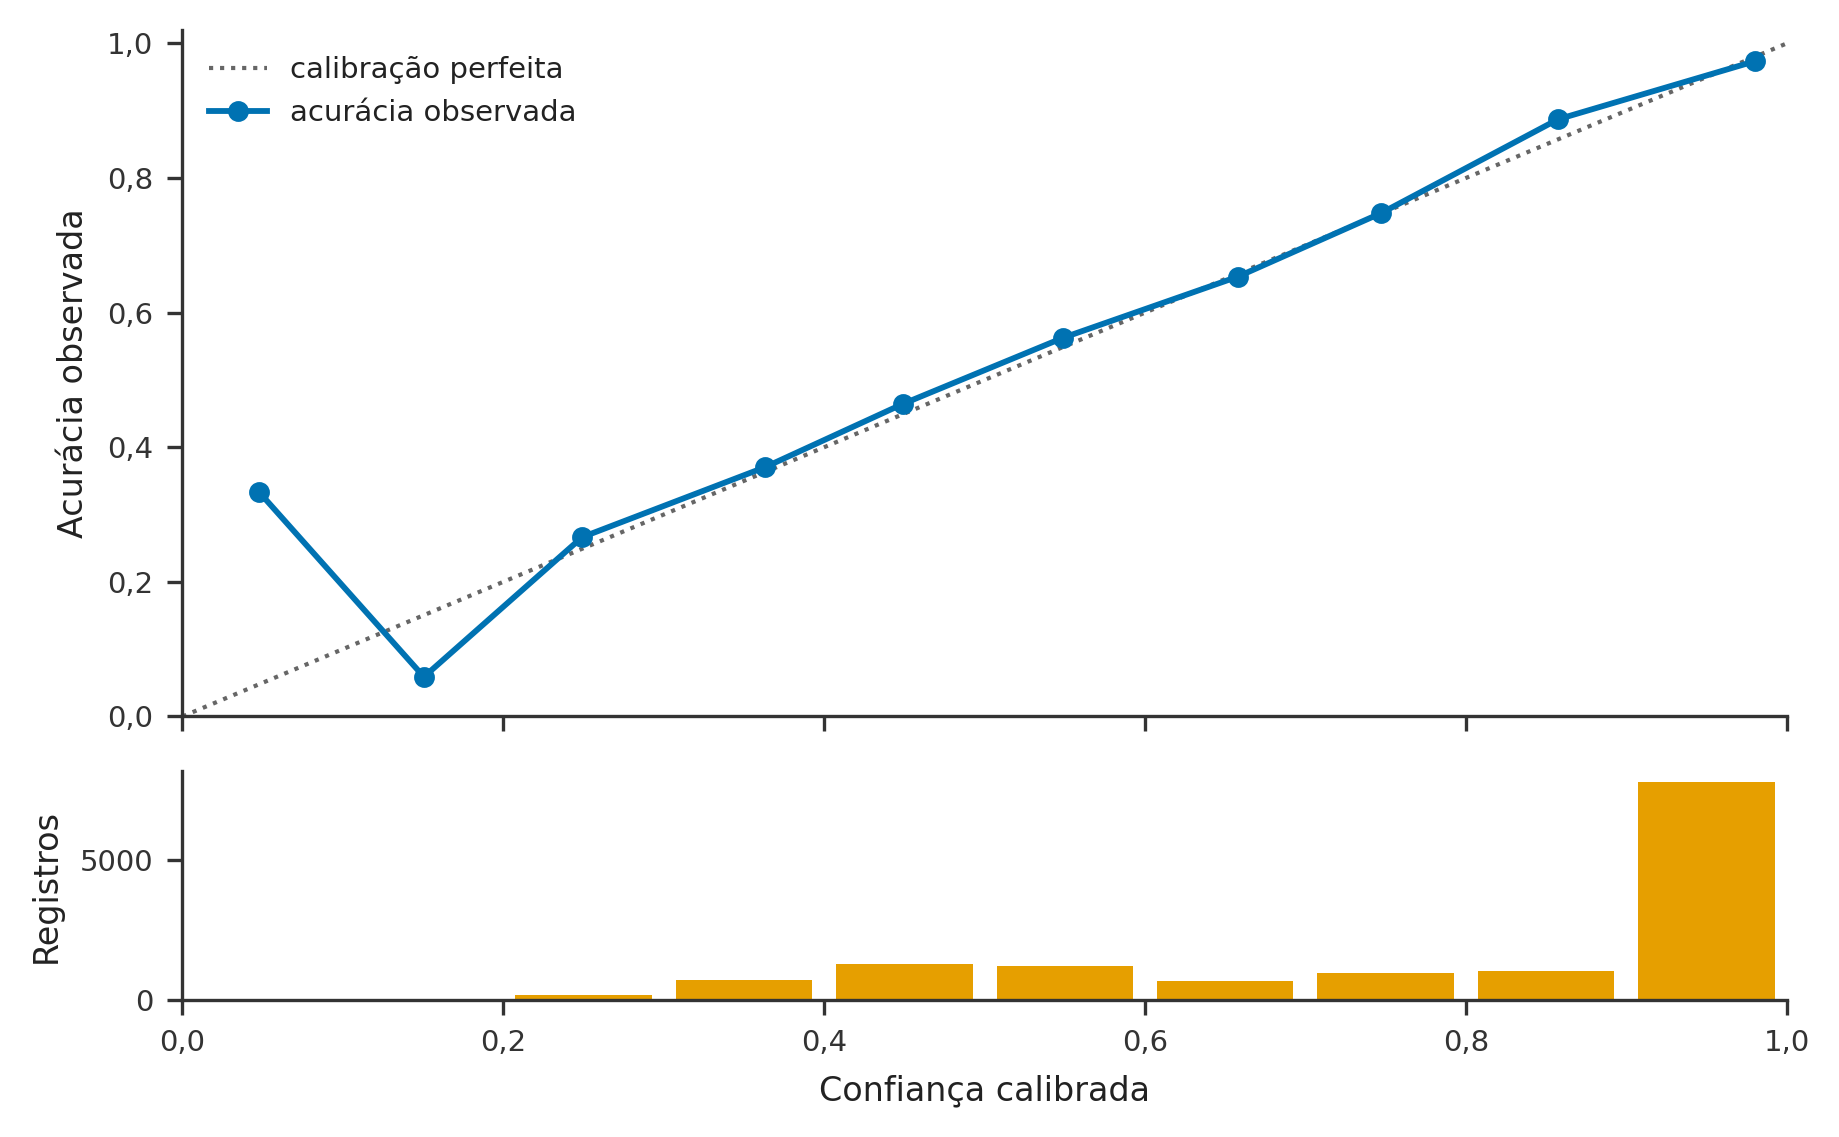
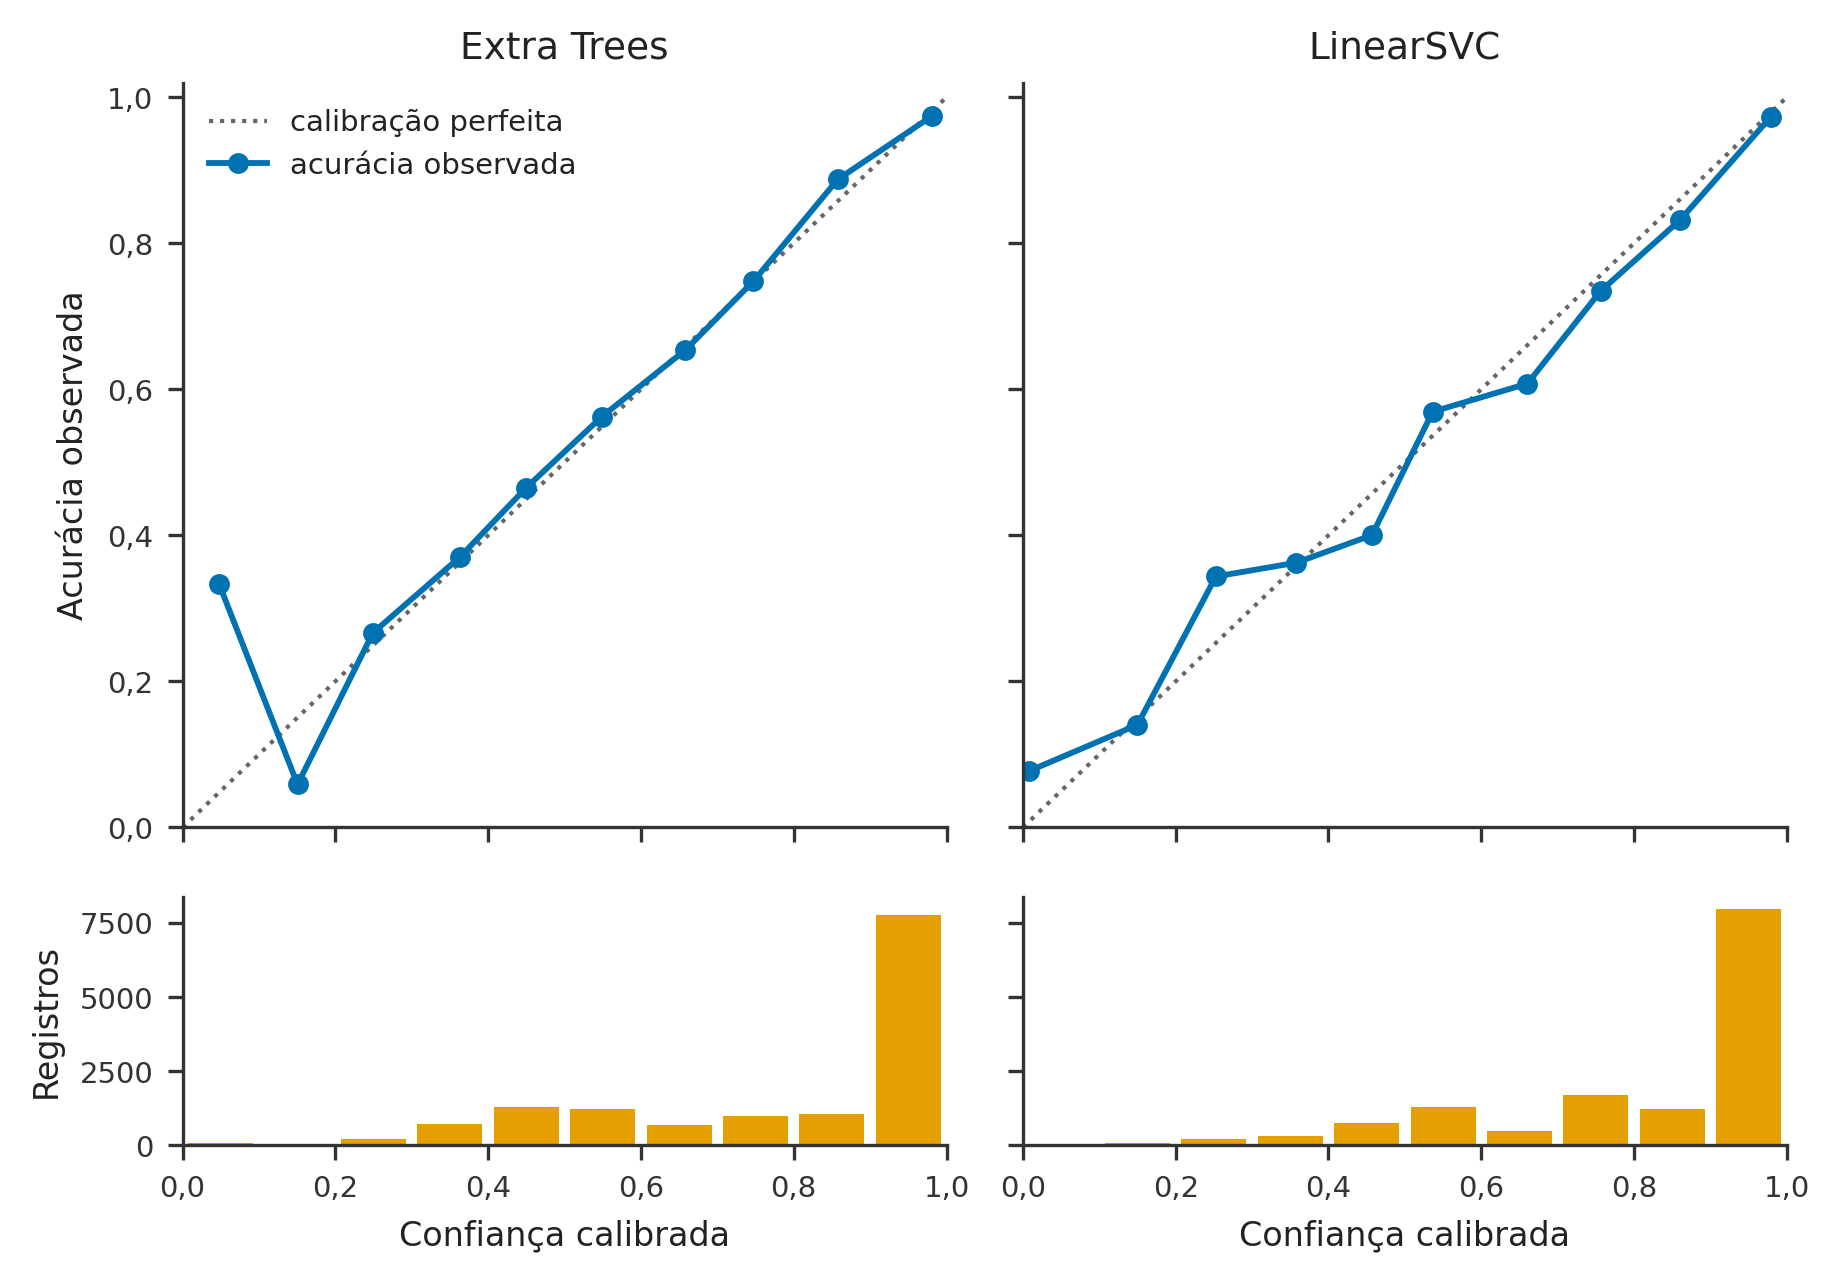
fix: figura 3 mostra Extra Trees e LinearSVC lado a lado, e Tabela 2 destaca o melhor valor por coluna
A curva de confiabilidade do LinearSVC (modelo recomendado para
producao) entra ao lado da do Extra Trees no mesmo quadro, sem abrir
figura suplementar nem linha extra de texto — so a imagem alarga.
Na Tabela 2, negrito no maior valor de concordancia, acuracia e
macro-F1 por coluna, e no menor tempo de treino (Naive Bayes, nao
LinearSVC: o LinearSVC nao tem o menor tempo de treino da tabela).

diff --git a/src/gerar_figuras_canonicas.py b/src/gerar_figuras_canonicas.py
@@ -97,6 +97,7 @@ ABREVIACOES_EXPLICITAS = {
     "Ponto de rede / fibra ótica / Wi-fi": "Ponto de rede/fibra/Wi-fi",
     "Manutenção área externa / meio ambiente / Poda de árvore / Roçagem":
         "Manut. área externa/poda árvore",
+    "Telhados, calhas, rufos, etc.": "Telhados/calhas/rufos",
 }
 
 
@@ -136,39 +137,50 @@ def formatar_decimal(ax, eixo: str = "x", casas: int = 1) -> None:
 
 
 # --------------------------------------------------------------------------
-# Figura 2 — curva de confiabilidade do melhor modelo calibrado
+# Figura 2 — curva de confiabilidade do modelo calibrado, ao lado da do
+# LinearSVC (modelo recomendado para producao): o leitor ve as duas sem
+# precisar de uma figura suplementar separada.
 # --------------------------------------------------------------------------
 def figura_confiabilidade(calibracao: dict[str, Any]) -> None:
-    modelo = next(m for m in calibracao["modelos"]
-                  if m["modelo"] == MODELO_CALIBRADO)
-    faixas = modelo["calibrada"]["confiabilidade"]
-    # 'faixa' vem como '[0.0, 0.1)'; o centro sai dos limites declarados.
-    centros = [(float(f["faixa"][1:-1].split(",")[0])
-                + float(f["faixa"][1:-1].split(",")[1])) / 2 for f in faixas]
-    confianca = [f["confianca_media"] for f in faixas]
-    acuracia = [f["acuracia"] for f in faixas]
-    registros = [f["n"] for f in faixas]
+    colunas = [MODELO_CALIBRADO, MODELO_PRINCIPAL]
 
-    fig, (ax, ax2) = plt.subplots(
-        2, 1, figsize=(LARGURA_DUPLA, 4.2), sharex=True,
-        gridspec_kw={"height_ratios": [3, 1], "hspace": 0.12})
+    fig, eixos = plt.subplots(
+        2, 2, figsize=(LARGURA_DUPLA, 4.6), sharex="col", sharey="row",
+        gridspec_kw={"height_ratios": [3, 1], "hspace": 0.14, "wspace": 0.10})
 
-    ax.plot([0, 1], [0, 1], color=COR["cinza"], linestyle=":", linewidth=1.0,
-            label="calibração perfeita")
-    ax.plot(confianca, acuracia, marker="o", color=COR["azul"],
-            label="acurácia observada")
-    ax.set_ylabel("Acurácia observada")
-    ax.set_ylim(0, 1.02)
-    ax.legend(loc="upper left")
-    formatar_decimal(ax, eixo="y")
-    limpar_eixo(ax)
+    for coluna, chave in enumerate(colunas):
+        modelo = next(m for m in calibracao["modelos"]
+                      if m["modelo"] == chave)
+        faixas = modelo["calibrada"]["confiabilidade"]
+        # 'faixa' vem como '[0.0, 0.1)'; o centro sai dos limites declarados.
+        centros = [(float(f["faixa"][1:-1].split(",")[0])
+                    + float(f["faixa"][1:-1].split(",")[1])) / 2
+                   for f in faixas]
+        confianca = [f["confianca_media"] for f in faixas]
+        acuracia = [f["acuracia"] for f in faixas]
+        registros = [f["n"] for f in faixas]
 
-    ax2.bar(centros, registros, width=0.085, color=COR["laranja"])
-    ax2.set_ylabel("Registros")
-    ax2.set_xlabel("Confiança calibrada")
-    ax2.set_xlim(0, 1)
-    formatar_decimal(ax2)
-    limpar_eixo(ax2)
+        ax, ax2 = eixos[0][coluna], eixos[1][coluna]
+
+        ax.plot([0, 1], [0, 1], color=COR["cinza"], linestyle=":",
+                linewidth=1.0, label="calibração perfeita")
+        ax.plot(confianca, acuracia, marker="o", color=COR["azul"],
+                label="acurácia observada")
+        ax.set_title(NOME[chave])
+        ax.set_ylim(0, 1.02)
+        formatar_decimal(ax, eixo="y")
+        limpar_eixo(ax)
+        if coluna == 0:
+            ax.set_ylabel("Acurácia observada")
+            ax.legend(loc="upper left")
+
+        ax2.bar(centros, registros, width=0.085, color=COR["laranja"])
+        ax2.set_xlabel("Confiança calibrada")
+        ax2.set_xlim(0, 1)
+        formatar_decimal(ax2)
+        limpar_eixo(ax2)
+        if coluna == 0:
+            ax2.set_ylabel("Registros")
 
     salvar(fig, FIGURAS / "fig_confianca_desfecho")
 

diff --git a/04_artigo/artigo_classificacao_chamados_v3.md b/04_artigo/artigo_classificacao_chamados_v3.md
@@ -602,7 +602,8 @@ contra a referência humana revisada, e custo de treino, por modelo
 (n = 13.972; 41 categorias). O intervalo é da acurácia, obtido por
 \textit{bootstrap} de grupo textual com mil repetições sobre os 9.735
 grupos congelados; o custo de treino é mediana de três execuções sobre a
-base completa.}
+base completa. Em negrito, o maior valor de cada coluna de desempenho e,
+por se tratar de custo, o menor tempo de treino.}
 \label{tab:desempenho}
 \setlength{\tabcolsep}{4pt}
 \renewcommand{\arraystretch}{1.15}
@@ -610,13 +611,13 @@ base completa.}
 \toprule
 Modelo & Concordância histórica & Acurácia & Macro-F1 & Intervalo essencial (IC95\% da acurácia) & Tempo de treino (s) \\
 \midrule
-LinearSVC & 0,7961 & 0,8253 & 0,6684 & 0,8115 -- 0,8378 & 2,44 \\
+LinearSVC & \textbf{0,7961} & \textbf{0,8253} & 0,6684 & 0,8115 -- 0,8378 & 2,44 \\
 SGD & 0,7781 & 0,8093 & 0,6669 & 0,7950 -- 0,8227 & 2,28 \\
 Extra Trees & 0,7844 & 0,8073 & 0,6362 & 0,7923 -- 0,8211 & 26,69 \\
-Regressão Logística & 0,7738 & 0,8050 & 0,6689 & 0,7907 -- 0,8189 & 8,43 \\
+Regressão Logística & 0,7738 & 0,8050 & \textbf{0,6689} & 0,7907 -- 0,8189 & 8,43 \\
 Random Forest & 0,7747 & 0,7970 & 0,6152 & 0,7812 -- 0,8111 & 22,62 \\
 LSTM & 0,7017 & 0,7287 & 0,5240 & 0,7080 -- 0,7480 & 83,44 \\
-Naive Bayes & 0,6954 & 0,7088 & 0,2951 & 0,6860 -- 0,7311 & 1,12 \\
+Naive Bayes & 0,6954 & 0,7088 & 0,2951 & 0,6860 -- 0,7311 & \textbf{1,12} \\
 \bottomrule
 \end{tabularx}
 \end{table}
@@ -815,9 +816,12 @@ Naive Bayes & 0,0144 & 0,0206 & 0,5518 & 0,9306 \\
 
 A Figura 3 apresenta a curva de confiabilidade do Extra Trees calibrado,
 tornando visível a aderência entre confiança declarada e acerto observado
-ao longo das dez faixas.
+ao longo das dez faixas, ao lado da mesma curva para o LinearSVC, modelo
+recomendado para produção pela Subseção 5.1: a calibração deste último
+(ECE de 0,0178, Tabela 4) acompanha a do Extra Trees sem perda visível de
+aderência.
 
-![Curva de confiabilidade do Extra Trees após calibração isotônica, com confiança média e acurácia observada por faixa.](04_artigo/figuras/fig_confianca_desfecho.pdf){width=85%}
+![Curva de confiabilidade do Extra Trees e do LinearSVC após calibração isotônica, com confiança média e acurácia observada por faixa.](04_artigo/figuras/fig_confianca_desfecho.pdf){width=98%}
 
 **4.4 Erros por categoria e implicações taxonômicas**
 
